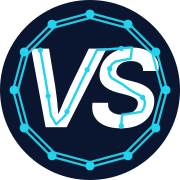
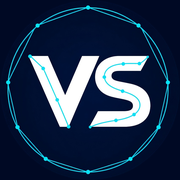
Use the approved VS badge artwork.
The corner mark, favicons, and share image now come from the final
badge image, cropped to the ring with transparent corners.

diff --git a/index.html b/index.html
@@ -23,8 +23,8 @@
   <meta name="twitter:description" content="Fraud and risk analytics at Likewize. Data that drives decisions.">
   <meta name="twitter:image" content="https://www.vishnusharmakp.com/assets/images/og.png">
   <meta name="twitter:image:alt" content="Vishnu Sharma K P, Data Analyst (Fraud and Risk Prevention)">
-  <link rel="icon" href="assets/images/favicon.svg" type="image/svg+xml">
   <link rel="icon" href="assets/images/favicon-32.png" sizes="32x32" type="image/png">
+  <link rel="icon" href="assets/images/favicon-16.png" sizes="16x16" type="image/png">
   <link rel="icon" href="assets/images/favicon.ico" sizes="any">
   <link rel="apple-touch-icon" href="assets/images/apple-touch-icon.png">
   <link rel="preconnect" href="https://fonts.googleapis.com">
@@ -74,7 +74,7 @@
   <header class="site-header">
     <div class="wrap header-inner">
       <a class="brand" href="#profile" aria-label="Vishnu Sharma — back to top">
-        <img class="monogram" src="assets/vs-badge.svg" alt="" width="36" height="36">
+        <img class="monogram" src="assets/images/vs-badge@2x.png" width="40" height="40" alt="">
         <span class="brand-name">Vishnu Sharma</span>
       </a>
       <div class="tab-switch" role="tablist" aria-label="Primary">

diff --git a/assets/css/style.css b/assets/css/style.css
@@ -215,9 +215,9 @@ section[id] { scroll-margin-top: calc(var(--header) + 0.8rem); }
 
 .monogram {
   display: block;
-  width: 36px;
-  height: 36px;
-  flex: 0 0 36px;
+  width: 40px;
+  height: 40px;
+  flex: 0 0 40px;
   border-radius: 50%;
 }
 
